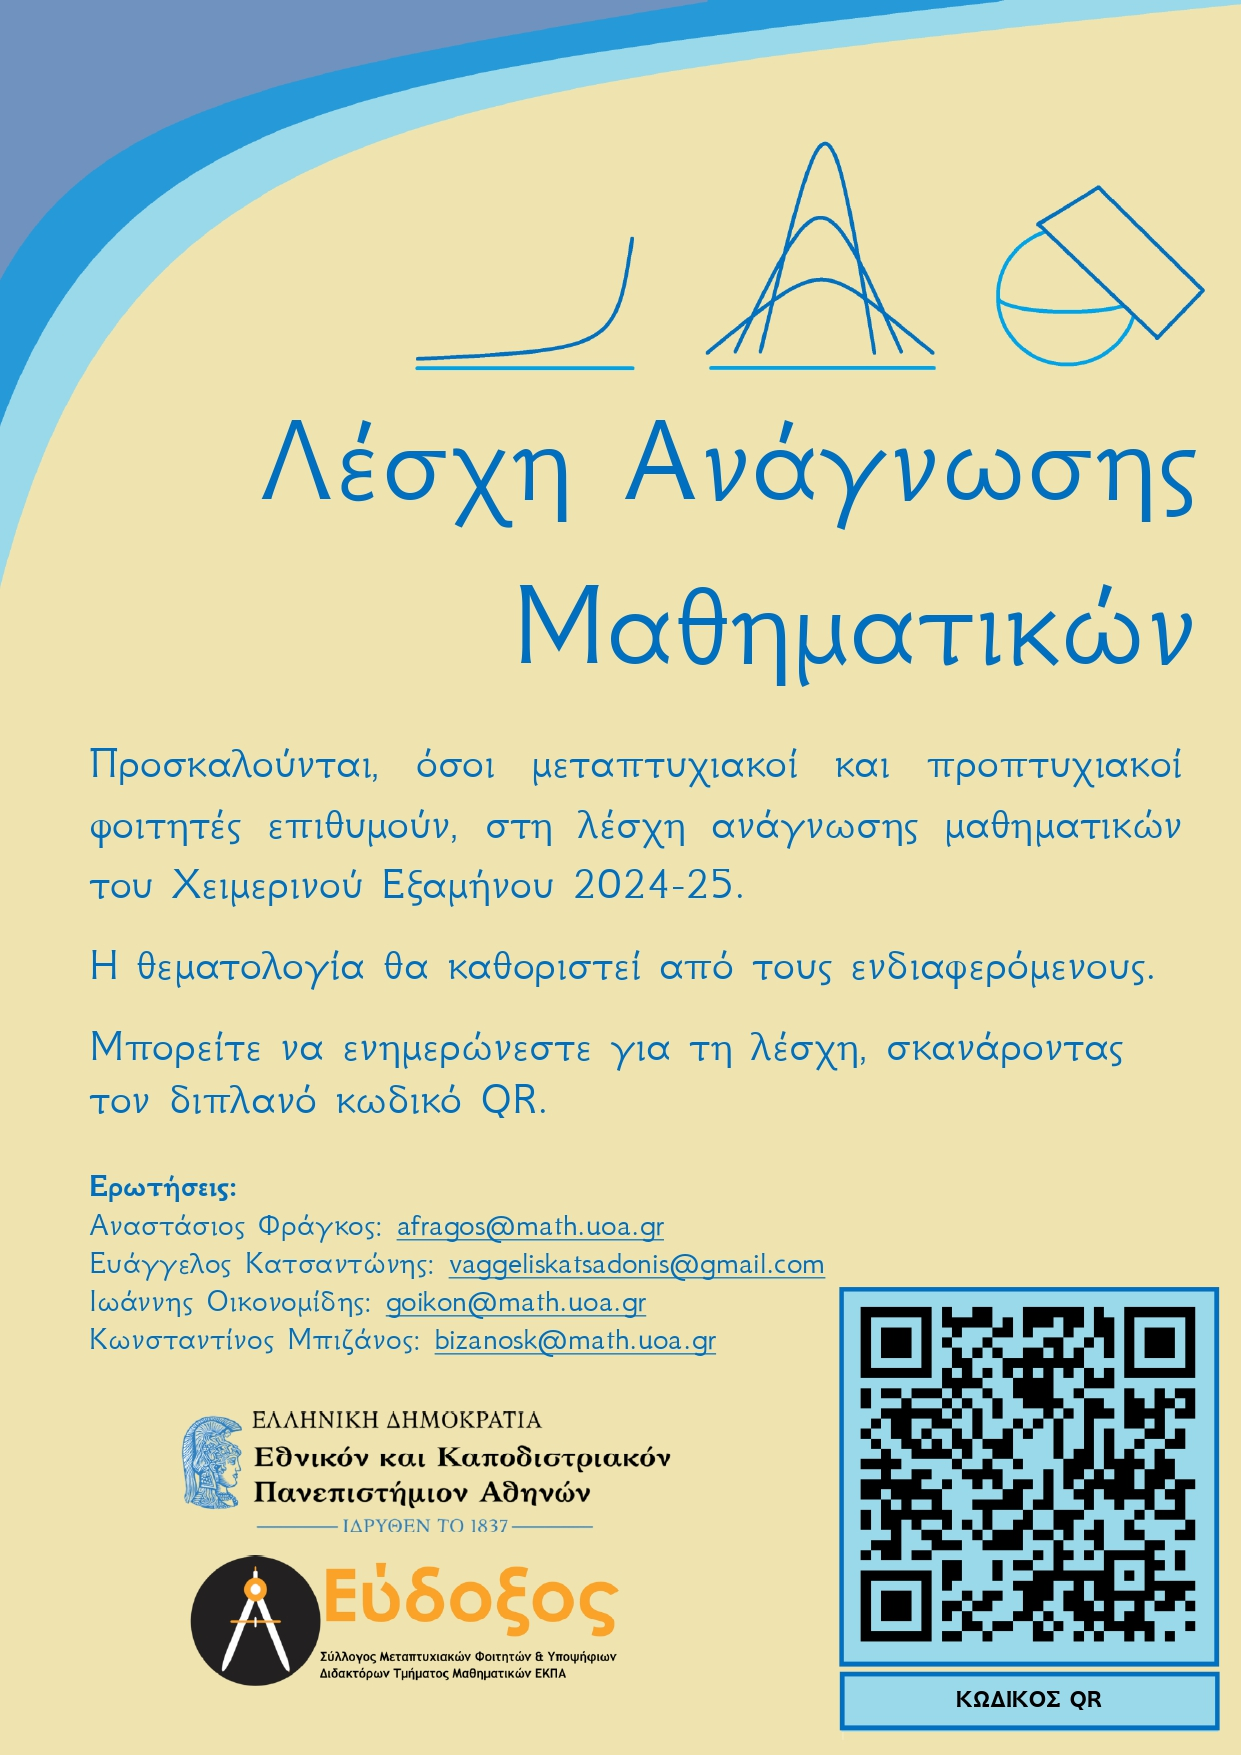
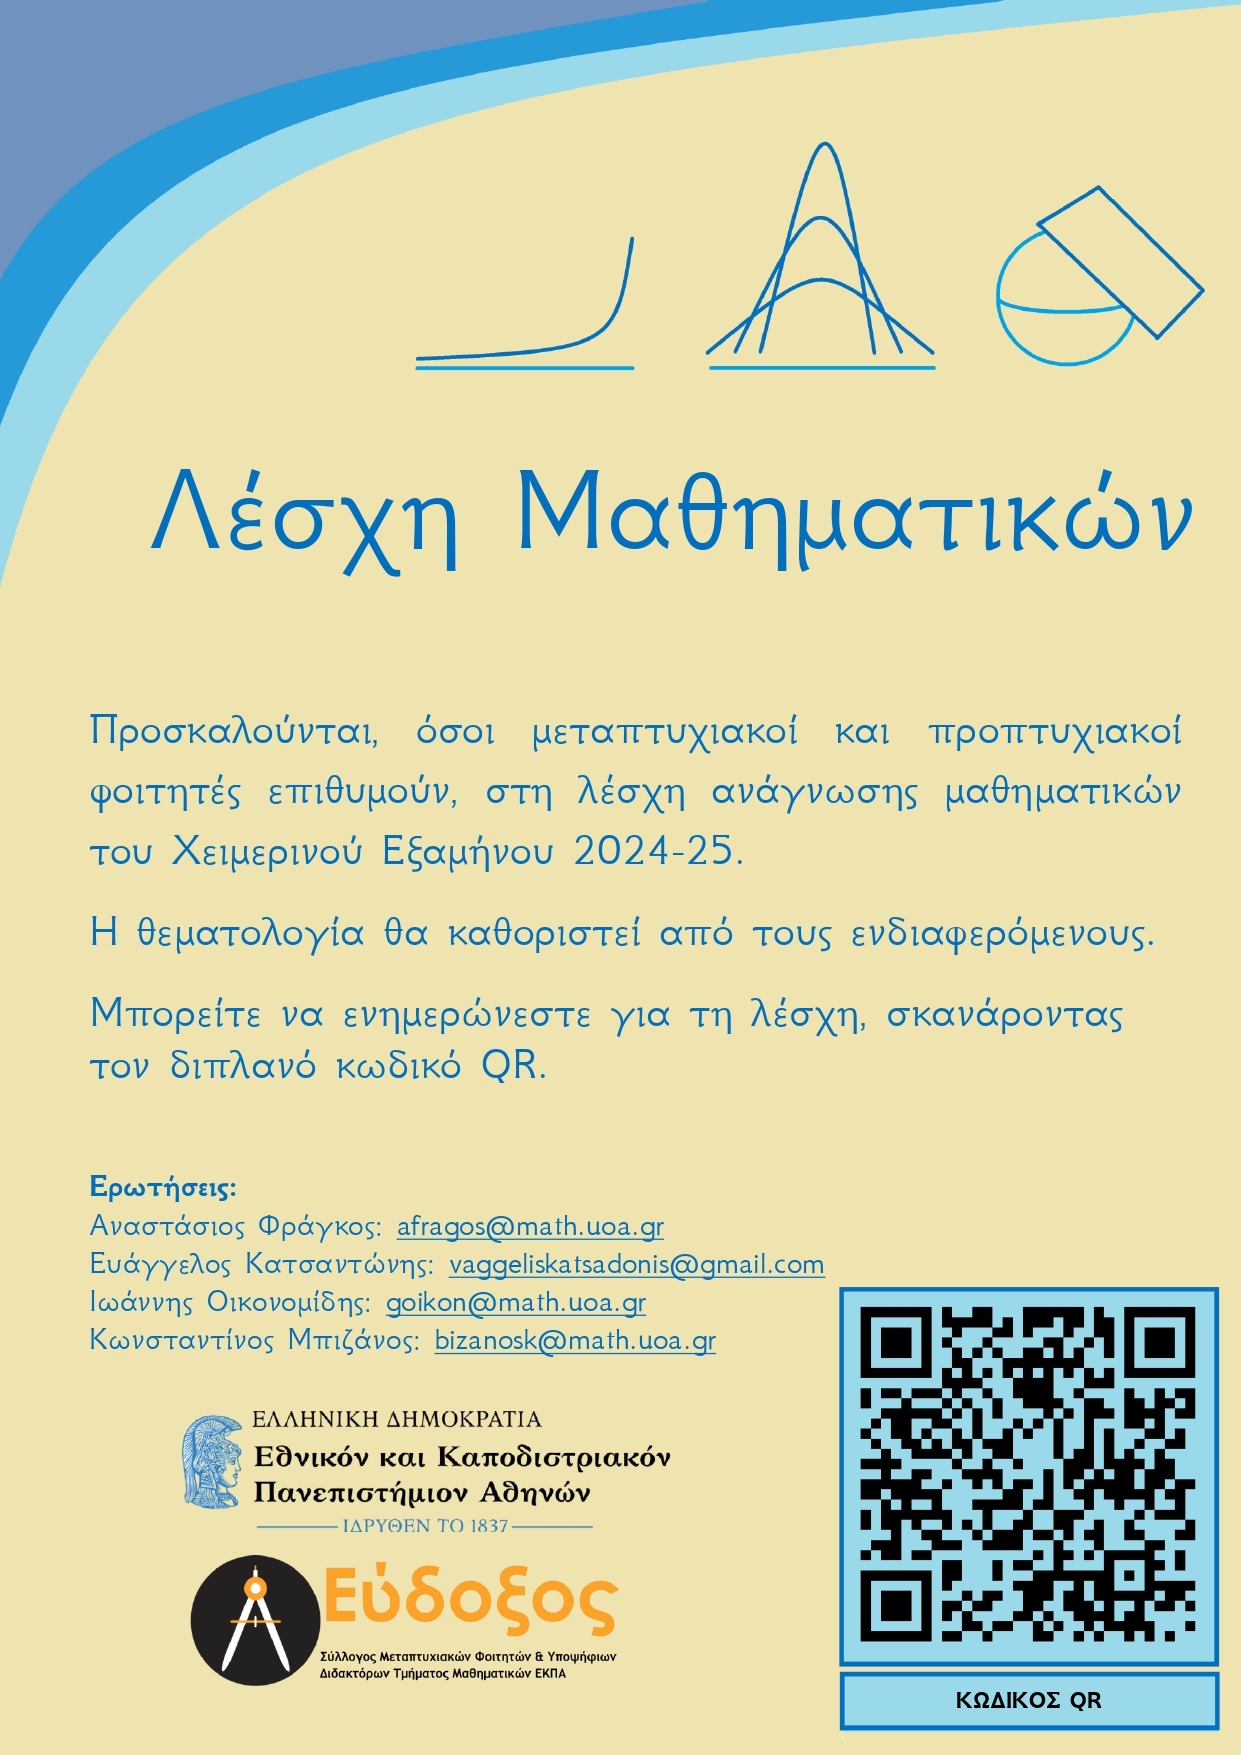
update

diff --git a/seminars/gradclub.html b/seminars/gradclub.html
@@ -2,7 +2,7 @@
 <html xmlns="http://www.w3.org/1999/xhtml">
 
 <head>
-<title>Λέσχη Ανάγνωσης Μαθηματικών</title>
+<title>Λέσχη Μαθηματικών</title>
 <meta http-equiv="Content-Type" content="text/html; charset=utf-8" />
 <meta name="viewport" content="width=device-width, initial-scale=1.0">
 
@@ -31,7 +31,7 @@
   </div>
   <div class="main">
     <img src="gradclubfiles/gradclublogo.png" width="45%" id="logo">
-    <h1>Λέσχη Ανάγνωσης Μαθηματικών</h1>
+    <h1>Λέσχη Μαθηματικών</h1>
     <h4>Χειμερινό εξάμηνο 2024-25</h4>
     <div class="boxtitle" id="chap1">
       Λίγα λόγια για τη Λέσχη
@@ -56,7 +56,7 @@
         Εάν ενδιαφέρεστε να παρακολουθήσετε / συμμετάσχετε στη λέσχη, καλό θα ήταν να συμπληρώσετε το όνομά σας παρακάτω:
       </p>
       <p style="text-align: center;">
-        <a href="https://docs.google.com/spreadsheets/d/1fhrLvXrzsgfqQcH0RVZ5-aM2pIovyiZSxcki0egj2vg/edit?usp=sharing">Εκδήλωση ενδιαφέροντος - Λέσχη Ανάγνωσης Μαθηματικών</a>
+        <a href="https://docs.google.com/spreadsheets/d/1fhrLvXrzsgfqQcH0RVZ5-aM2pIovyiZSxcki0egj2vg/edit?usp=sharing">Εκδήλωση ενδιαφέροντος - Λέσχη Μαθηματικών</a>
       </p>
       <p>
         <b>Mailing list:</b>
@@ -397,7 +397,7 @@
       </p>
     </div>
     <p id="we">
-      ΛΑΜ: Αναστάσιος Φράγκος, Ευάγγελος Κατσαντώνης, Ιωάννης Οικονομίδης, Κωνσταντίνος Μπιζάνος, 2024-25.
+      ΛΜ: Αναστάσιος Φράγκος, Ευάγγελος Κατσαντώνης, Ιωάννης Οικονομίδης, Κωνσταντίνος Μπιζάνος, 2024-25.
     </p>
   </div>
 </div>

diff --git a/seminars/gradclubfiles/w2024-25/stekous(stein).html b/seminars/gradclubfiles/w2024-25/stekous(stein).html
@@ -20,7 +20,7 @@
   </div>
   <div class="main">
     <img src="../gradclublogo.png" width="45%" id="logo">
-    <h1>Λέσχη Ανάγνωσης Μαθηματικών</h1>
+    <h1>Λέσχη Μαθηματικών</h1>
     <h4>Χειμερινό εξάμηνο 2024-25</h4>
     <div class="present">
       <table>
